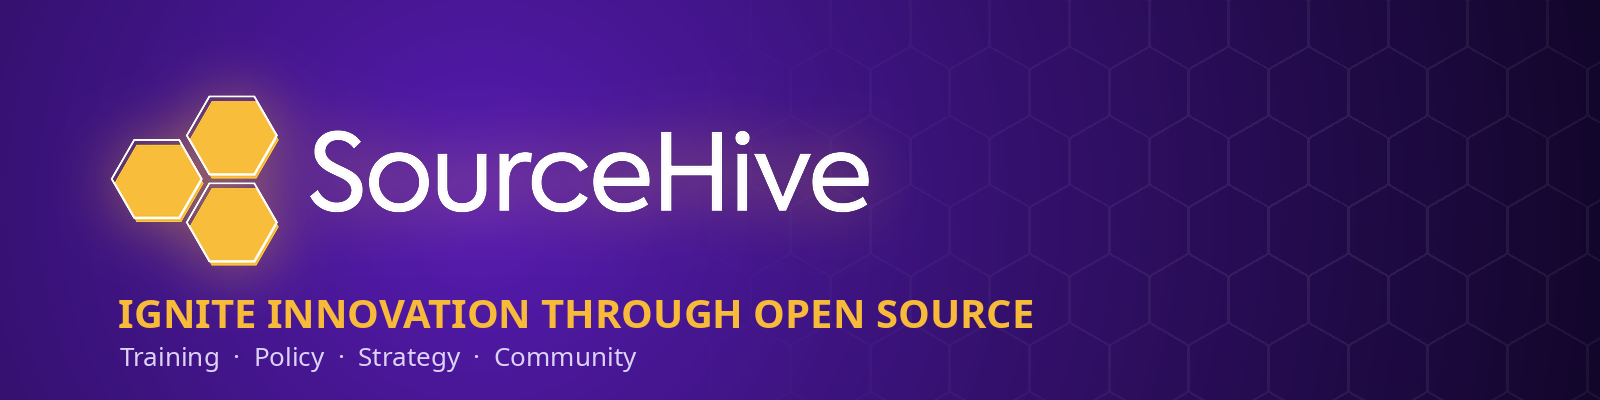
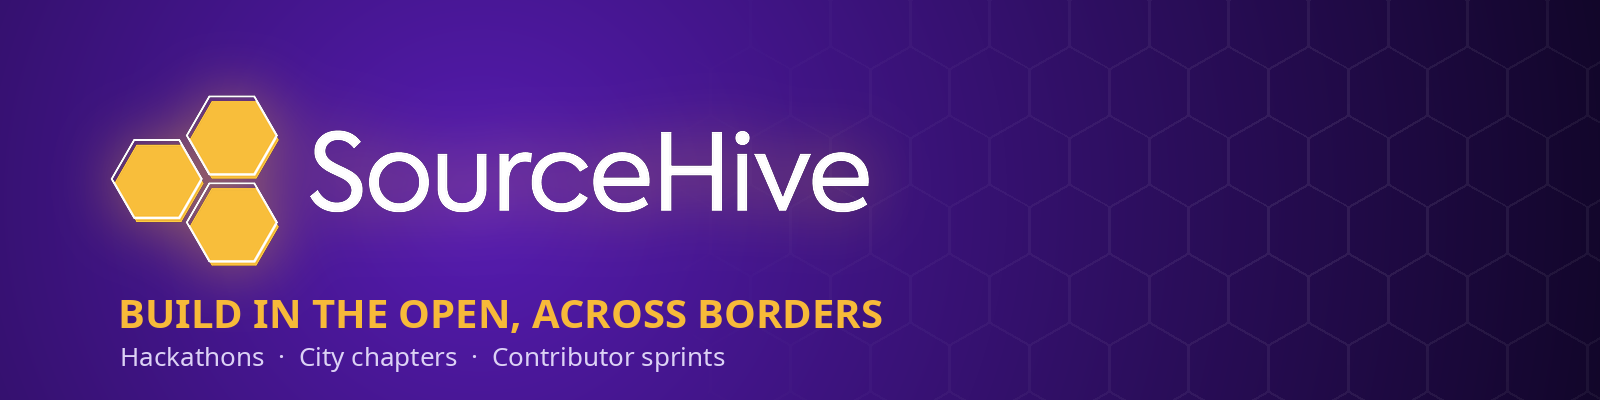
Update profile for new website sourcehive.buzz

Changed region(s): [[0.0625, 0.75, 0.6562, 0.84], [0.0625, 0.87, 0.4688, 0.93]]

diff --git a/profile/README.md b/profile/README.md
@@ -1,28 +1,51 @@
 <p align="center">
-  <img src="https://raw.githubusercontent.com/sourcehive-org/.github/main/profile/banner.png" alt="SourceHive — Ignite innovation through open source" width="100%">
+  <img src="https://raw.githubusercontent.com/sourcehive-org/.github/main/profile/banner.png" alt="SourceHive — Build in the open, across borders" width="100%">
 </p>
 
 <p align="center">
-  <a href="https://www.sourcehive.org"><img src="https://img.shields.io/badge/Website-sourcehive.org-F7BA39?style=for-the-badge&labelColor=1A0A3A" alt="Website"></a>
+  <a href="https://sourcehive.buzz"><img src="https://img.shields.io/badge/Website-sourcehive.buzz-F7BA39?style=for-the-badge&labelColor=1A0A3A" alt="Website"></a>
   <a href="https://www.linkedin.com/company/sourcehivecommunity/"><img src="https://img.shields.io/badge/LinkedIn-SourceHive-F7BA39?style=for-the-badge&logo=linkedin&logoColor=white&labelColor=1A0A3A" alt="LinkedIn"></a>
   <a href="https://www.instagram.com/sourcehive.uae/"><img src="https://img.shields.io/badge/Instagram-sourcehive.uae-F7BA39?style=for-the-badge&logo=instagram&logoColor=white&labelColor=1A0A3A" alt="Instagram"></a>
 </p>
 
-## 🐝 Welcome to the Hive
+## 🐝 Build in the open with developers across borders
 
-**SourceHive** is a nonprofit that puts open-source excellence in the spotlight. We bring together developers, creators and technologists who love to build, and we help companies get good at open-source business models and digital leadership.
+**SourceHive** is a not-for-profit, developer-led community. We believe open-source innovation thrives when talent comes together across boundaries: geographic, professional and technical.
 
-## 🍯 What we do
+We run **hackathons**, **contributor sprints** and **maintainer office hours** for open-source projects. Pick an issue, find a team, ship a pull request.
 
-| Service | What it means for you |
+**Tracks this season:** Web & APIs · AI / ML · Developer tools · Cloud & infra · Open data
+
+## 🚀 Your first contribution
+
+No gatekeeping. There's a clear path from clone to merged pull request.
+
+| Step | What happens |
 |---|---|
-| 🎓 **Open-source training** | Sessions with thought leaders and industry experts on the principles and practices of open source. |
-| 📜 **Open-source policy** | Help designing and rolling out open-source policies that fit an organisation's goals and values. |
-| 🧭 **Strategic consulting** | Strategies that line up business goals with open-source principles. |
-| 🤝 **Community engagement** | Practical ways to work with open-source communities for lasting collaboration and innovation. |
+| 1⃣ **Pick an issue** | Filter labelled issues by language, difficulty and time needed. Each one has a scoped task and a test to pass. |
+| 2⃣ **Pair with a maintainer** | Book a 20-minute slot in weekly office hours, or ask in the project channel. Reviews within 72 hours. |
+| 3⃣ **Open your pull request** | Merged contributions show on your community profile and count toward event rankings. |
 
-## 🌍 Join the borderless community of coders
+## 📅 Events
 
-Want to partner with SourceHive or bring it to your city? Get in touch at **[sourcehive.org](https://www.sourcehive.org)**.
+Panels, hackathons and city chapters, in person and remote.
+
+| | Event | Where |
+|---|---|---|
+| 🟢 **Open** | **World AI Week with World Summit AI 2026**: *Intelligence in Motion: Real-Time Data, Zero Compromise*, a SourceHive panel | STRAAT Museum, Amsterdam 🇳🇱 |
+| ⚪ Closed | **NS4W Hackathon**: a 48-hour build weekend, teams of 2 to 5, mentored by maintainers | Dubai 🇦🇪 |
+| ⚪ Closed | **Code Storm Asia**: a multi-city challenge around shared open-source problems | Asia 🌏 |
+
+**Where the hive meets:** Dubai · Abu Dhabi · Amman · Amsterdam · Singapore, plus remote teams from anywhere.
+
+## 🏢 For organisations
+
+Open-source training programmes · open-source policy development · strategy for open-source business models · community engagement planning.
+
+**Bring SourceHive to your city:** host a hackathon, sponsor a track, or start a local chapter. Get in touch at **[sourcehive.buzz](https://sourcehive.buzz/#contact)**.
+
+## 🤝 Code of conduct
+
+Be respectful, assume good faith, and keep the work in the open. Harassment, hate and leaking private data are out. Mentors and organisers can remove someone from an event. [Read more](https://sourcehive.buzz/#conduct).
 
 <p align="center"><sub>Part of the <a href="https://www.ahoy.technology/">AHOY</a> ecosystem · Made with 💛 by the SourceHive community</sub></p>
